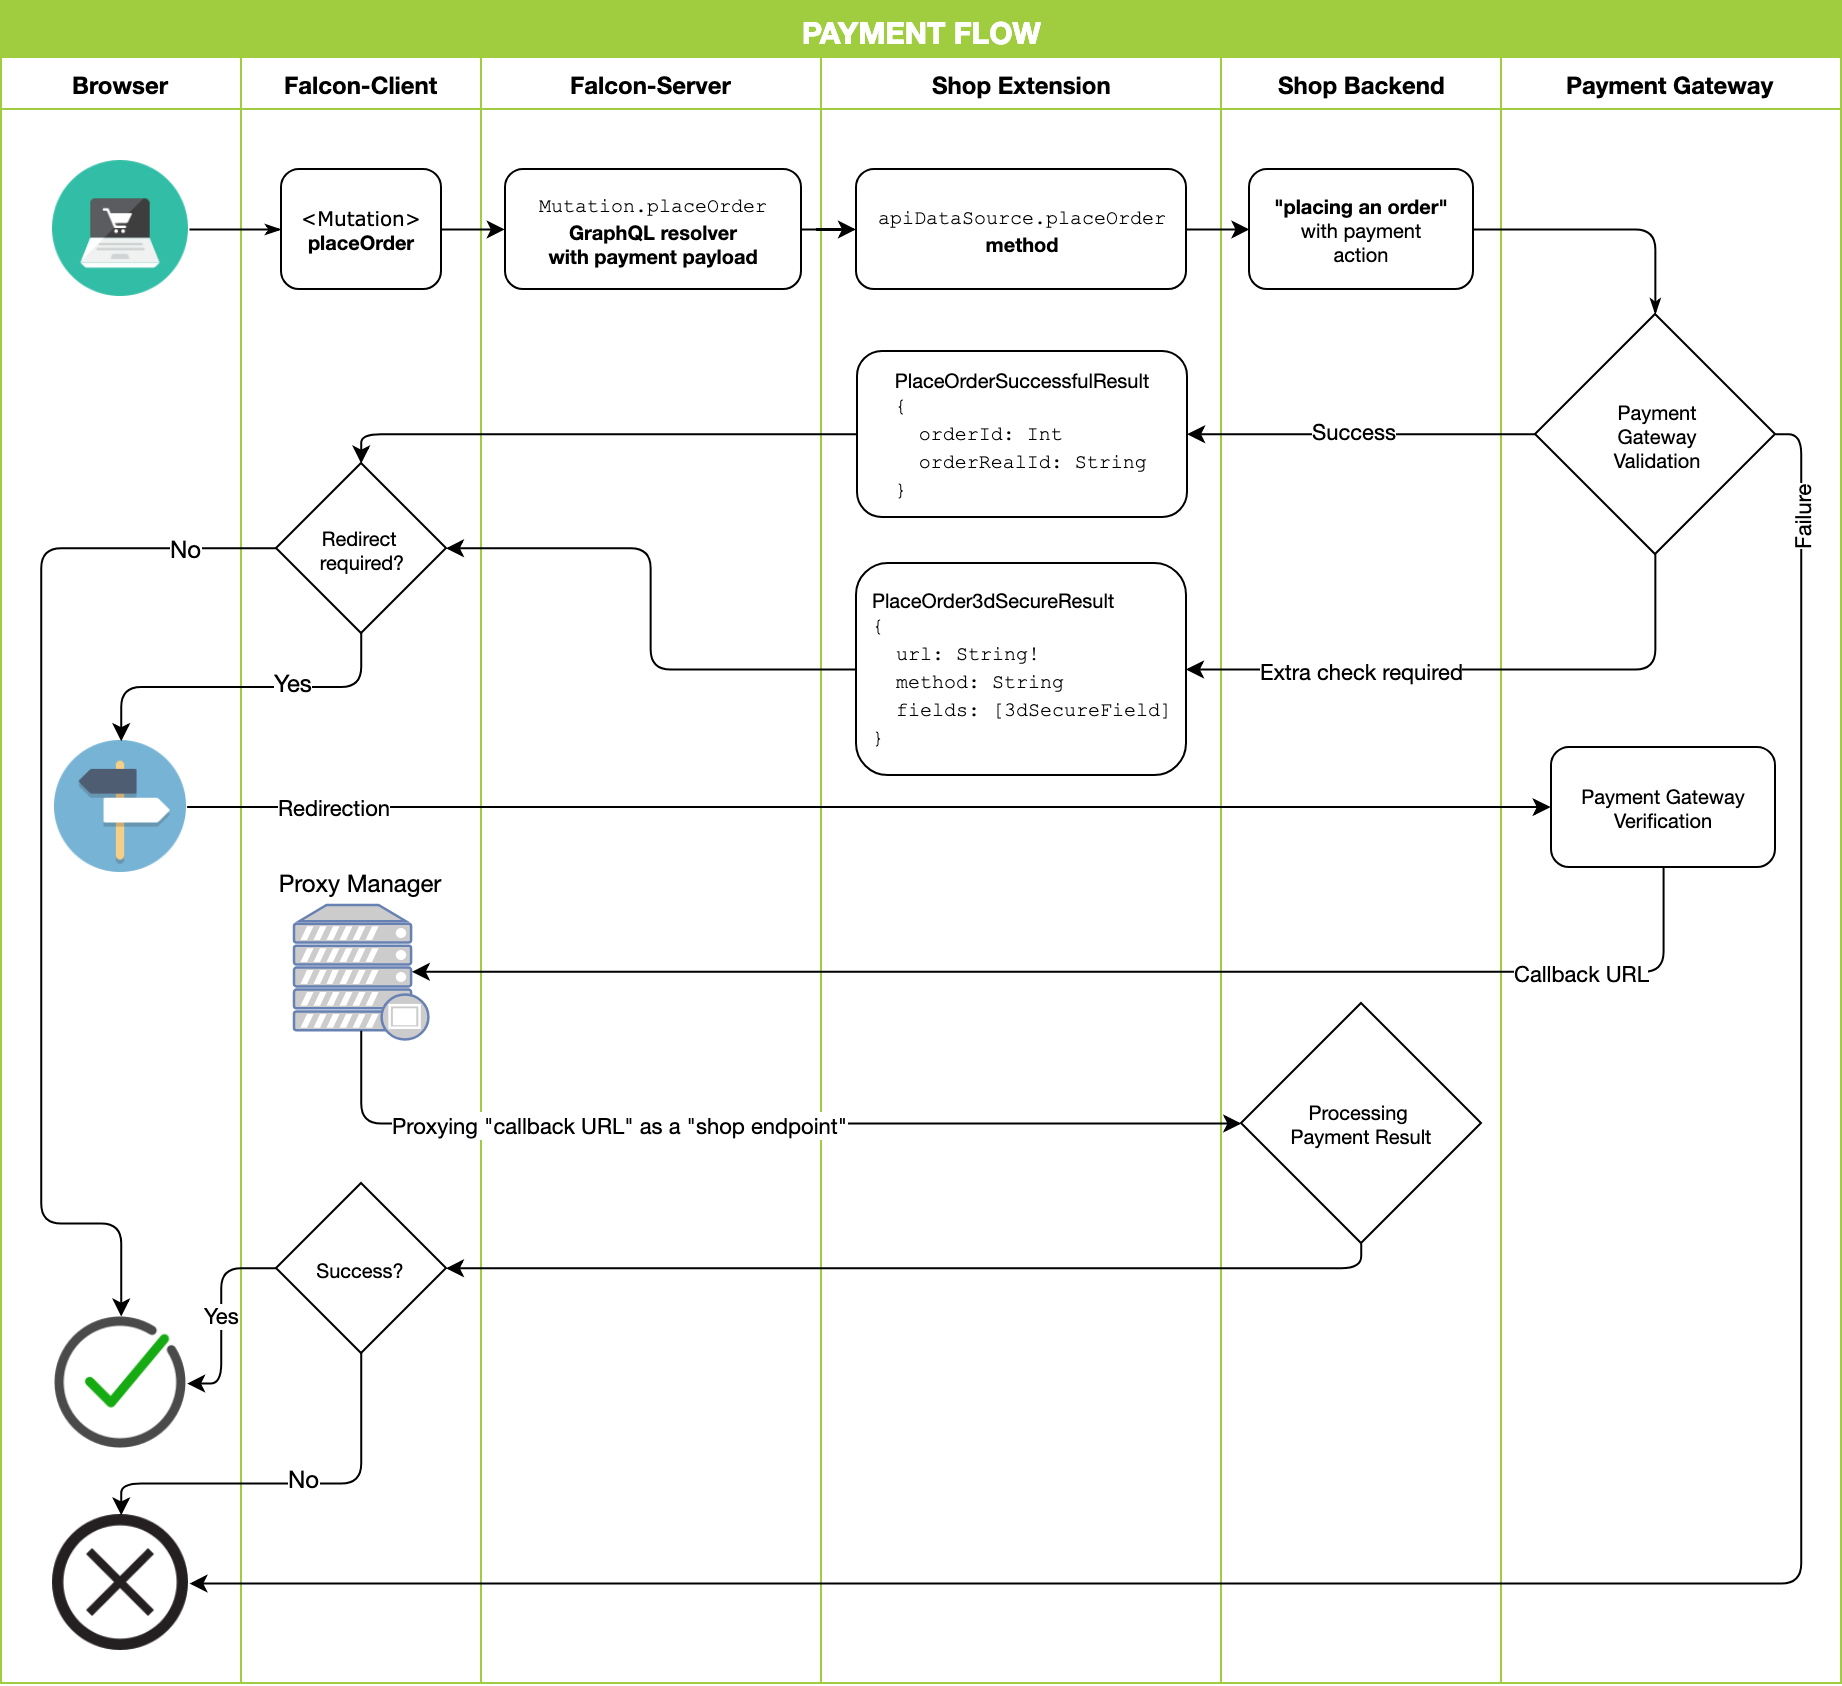
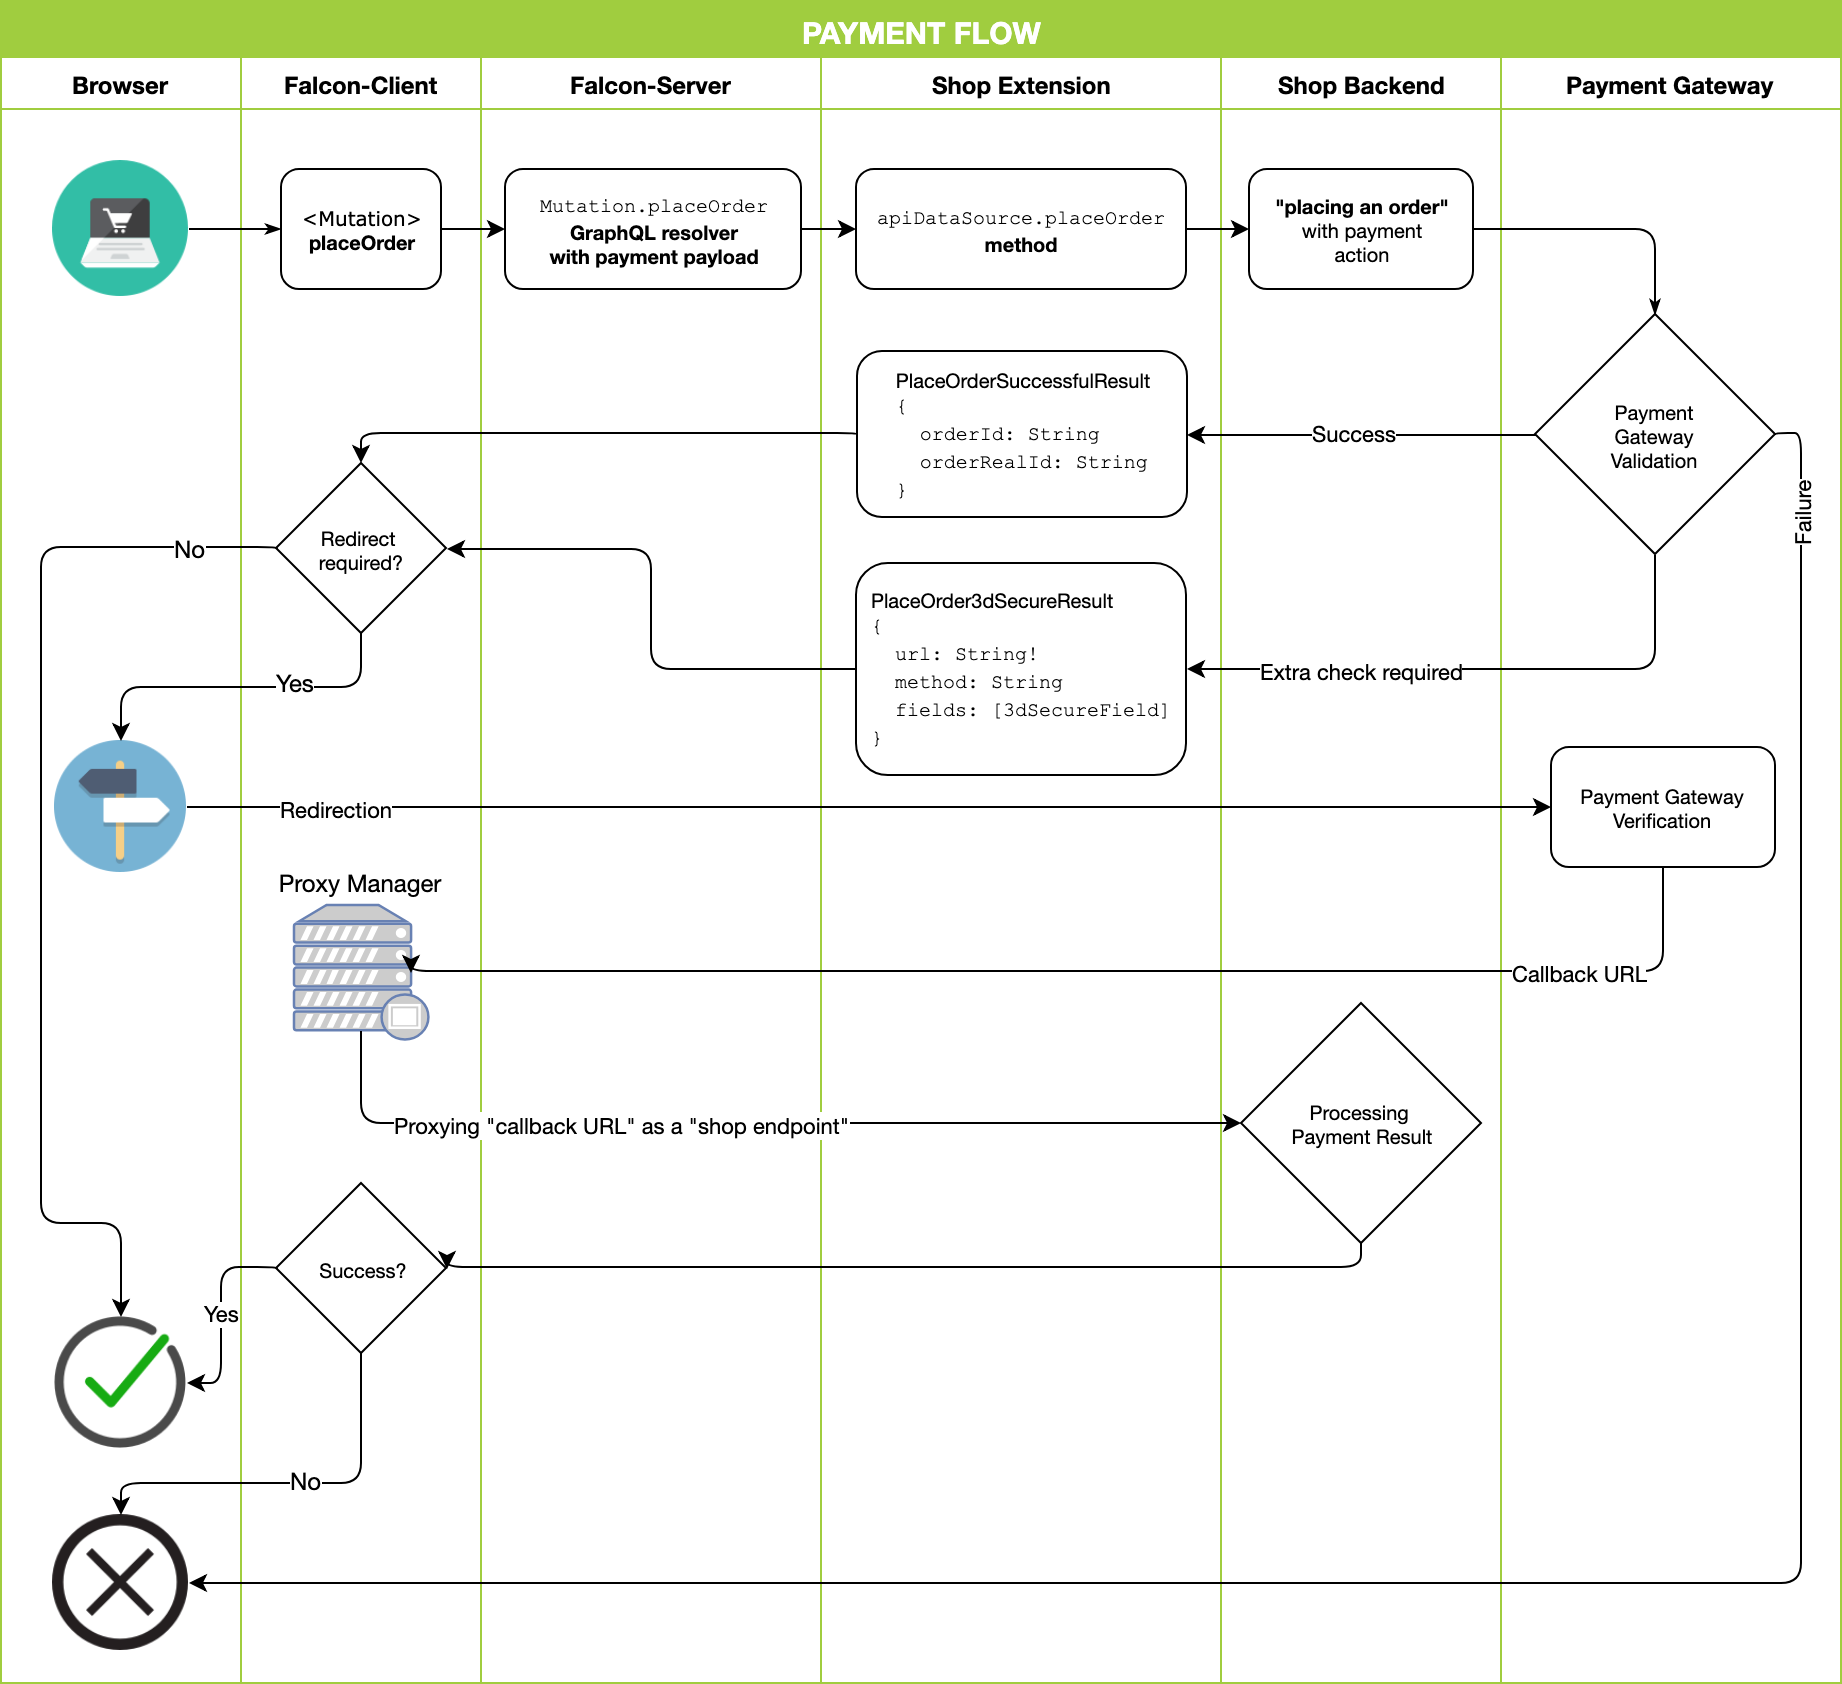
Updating payment-workflow image, re-organizing docs structure, adding Payments Intro

diff --git a/docs/payments/intro.md b/docs/payments/intro.md
@@ -1,0 +1,74 @@
+---
+title: Introduction
+---
+
+DEITY Falcon provides a basic support for Shop Payments,
+the overall schema is shown on the image below:
+
+[![Payment Flow](assets/payment-workflow.png)](assets/payment-workflow.png)
+<span style="font-style: italic; text-align: center; display: block; font-size: 0.8em">Click to enlarge</span>
+
+> If you would like to contribute and make your own changes to this flowchart - please check
+> [Working with flowcharts](support/flowcharts.md) page first.
+
+The required GraphQL schema is being provided by
+[`shop-extension`](falcon-server/extensions.md#shop-extension) itself, meaning that your ApiDataSource that is assigned to ShopExtension has to take care of all payment-related operations.
+
+## Placing an order
+
+Whenever a visitor clicks on "__Place order__" button - the GraphQL Mutation request goes to your
+ApiDataSource instance (usually it's a `placeOrder` method) to submit your order (including your "payment"
+data as a part of the Mutation input) to the real shop backend (like Magento).
+
+> Check the current `@deity/falcon-shop-extension` GraphQL Schema [here](https://github.com/deity-io/falcon/blob/master/packages/falcon-shop-extension/src/schema.graphql) and specifically `input PlaceOrderInput` definition.
+
+## Initial order placement on the backend
+
+Please be aware that in some cases there might be needed several API requests to perform a complete order placement,
+but from the GraphQL (Falcon-Server) perspective - it's still a single mutation, thus your `placeOrder` Mutation
+has to return one of the following result types:
+
+- `PlaceOrderSuccessfulResult` when the order was successfully placed for further processing and your
+ApiDataSource returns `orderId` and `orderRealId` as a Mutation result
+- `PlaceOrder3dSecureResult` when the payment requires additional validation/check from the Payment Gateway,
+in this case - ApiDataSource returns a URL (where to redirect to), HTTP Method (`GET`/`POST`) and an optional
+list of POST fields (in case of `POST` redirection) to be submitted to the specified URL
+
+## Initial order placement on the frontend
+
+Frontend behaves differently depending on the received result.
+
+In case of `PlaceOrderSuccessfulResult` - it redirects you to `/checkout/confirmation` page to show the confirmation to
+your visitor (`orderId` is going to be passed to `lastOrder` Query to get the contents of that order).
+
+In case of `PlaceOrder3dSecureResult` - it redirects you to the returned `url` (external Payment Gateway) to proceed with the
+required checks and validations to verify your payment (like 3d-secure bank card payments or PayPal log-in page).
+
+## Payment Gateway callback
+
+After getting a `PlaceOrder3dSecureResult` result, visitor is going to be redirected to the Payment Gateway URL to proceed
+with the checks. It's important to keep a visitor within the same app - Falcon-Client, so any further "return callbacks" must
+be done to this app domain. This means that our Falcon-Client application must be able of processing such callback requests and for this
+reason - we use [endpoints](falcon-server/endpoints.md) feature (`Proxy Manager` on the scheme above) to proxy the whole callback
+request from Falcon-Client to Falcon-Server and further to the actual shop backend.
+
+> DEITY Falcon [provides](https://github.com/deity-io/falcon/blob/dev/packages/falcon-magento2-api/src/endpoints.js) such endpoints
+> for `@deity/falcon-magento2-api` package out-of-the-box to support PayPal and Adyen callback).
+
+Whenever _Falcon-Server_ starts - it initializes all configured [`endpoints`](falcon-server/endpoints.md) and exposes
+them via web-server router to the public access. Later, whenever _Falcon-Client_ starts with a properly configured `onRouterCreated`
+[hook](https://github.com/deity-io/falcon/blob/dev/examples/shop-with-blog/client/bootstrap.js#L18) - it fetches all the exposed
+endpoints that are needed to be proxied from the "frontend" to the "backend" and exposes them in the same way.
+
+So, whenever our visitor "comes back" from the Payment Gateway back to our Falcon-Client with a payload response - our Falcon-Client
+application is able to process such request and return a result status back to the visitor.
+
+## Callback result check
+
+The result of such "request proxy" is being returned from our Falcon-Server endpoint to the Falcon-Client with a specific status.
+Based on that result - the visitor can be redirected to 3 options:
+
+- `/checkout/confirmation` in case of a successful payment
+- `/checkout/failure` if for some reason the payment transaction cannot be completed
+- `/cart`  in case of "canceled" transaction
+
